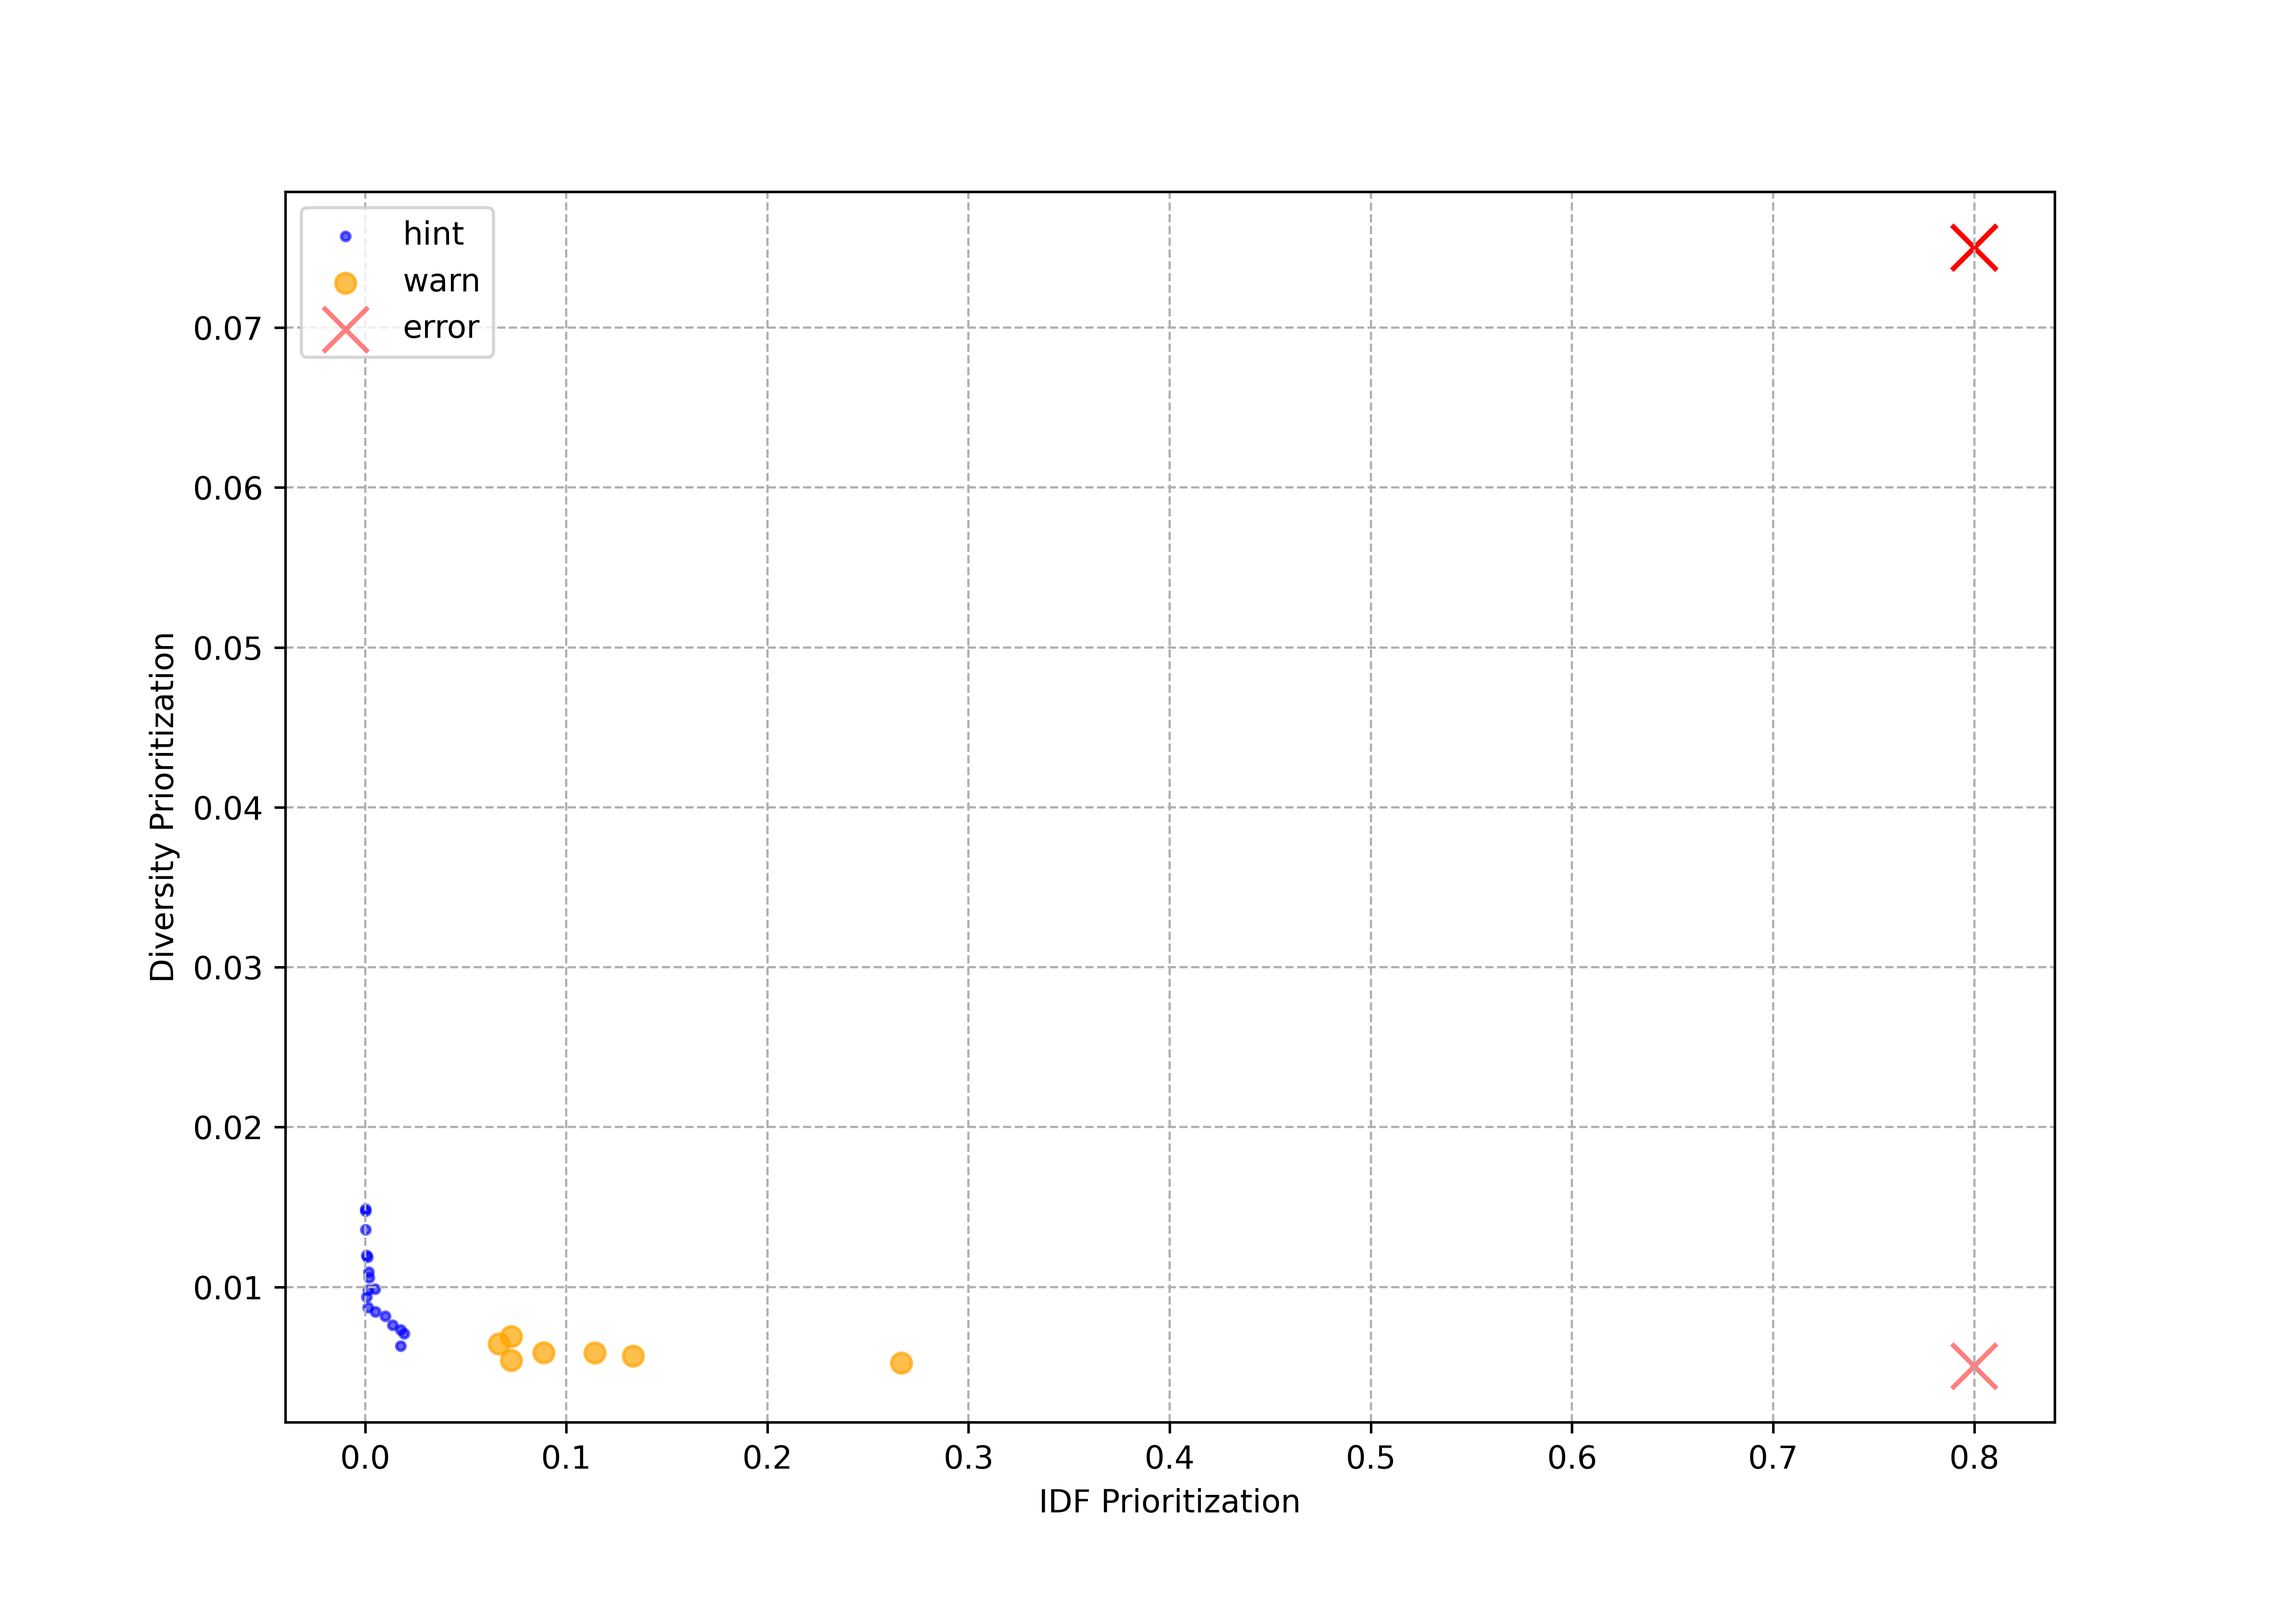
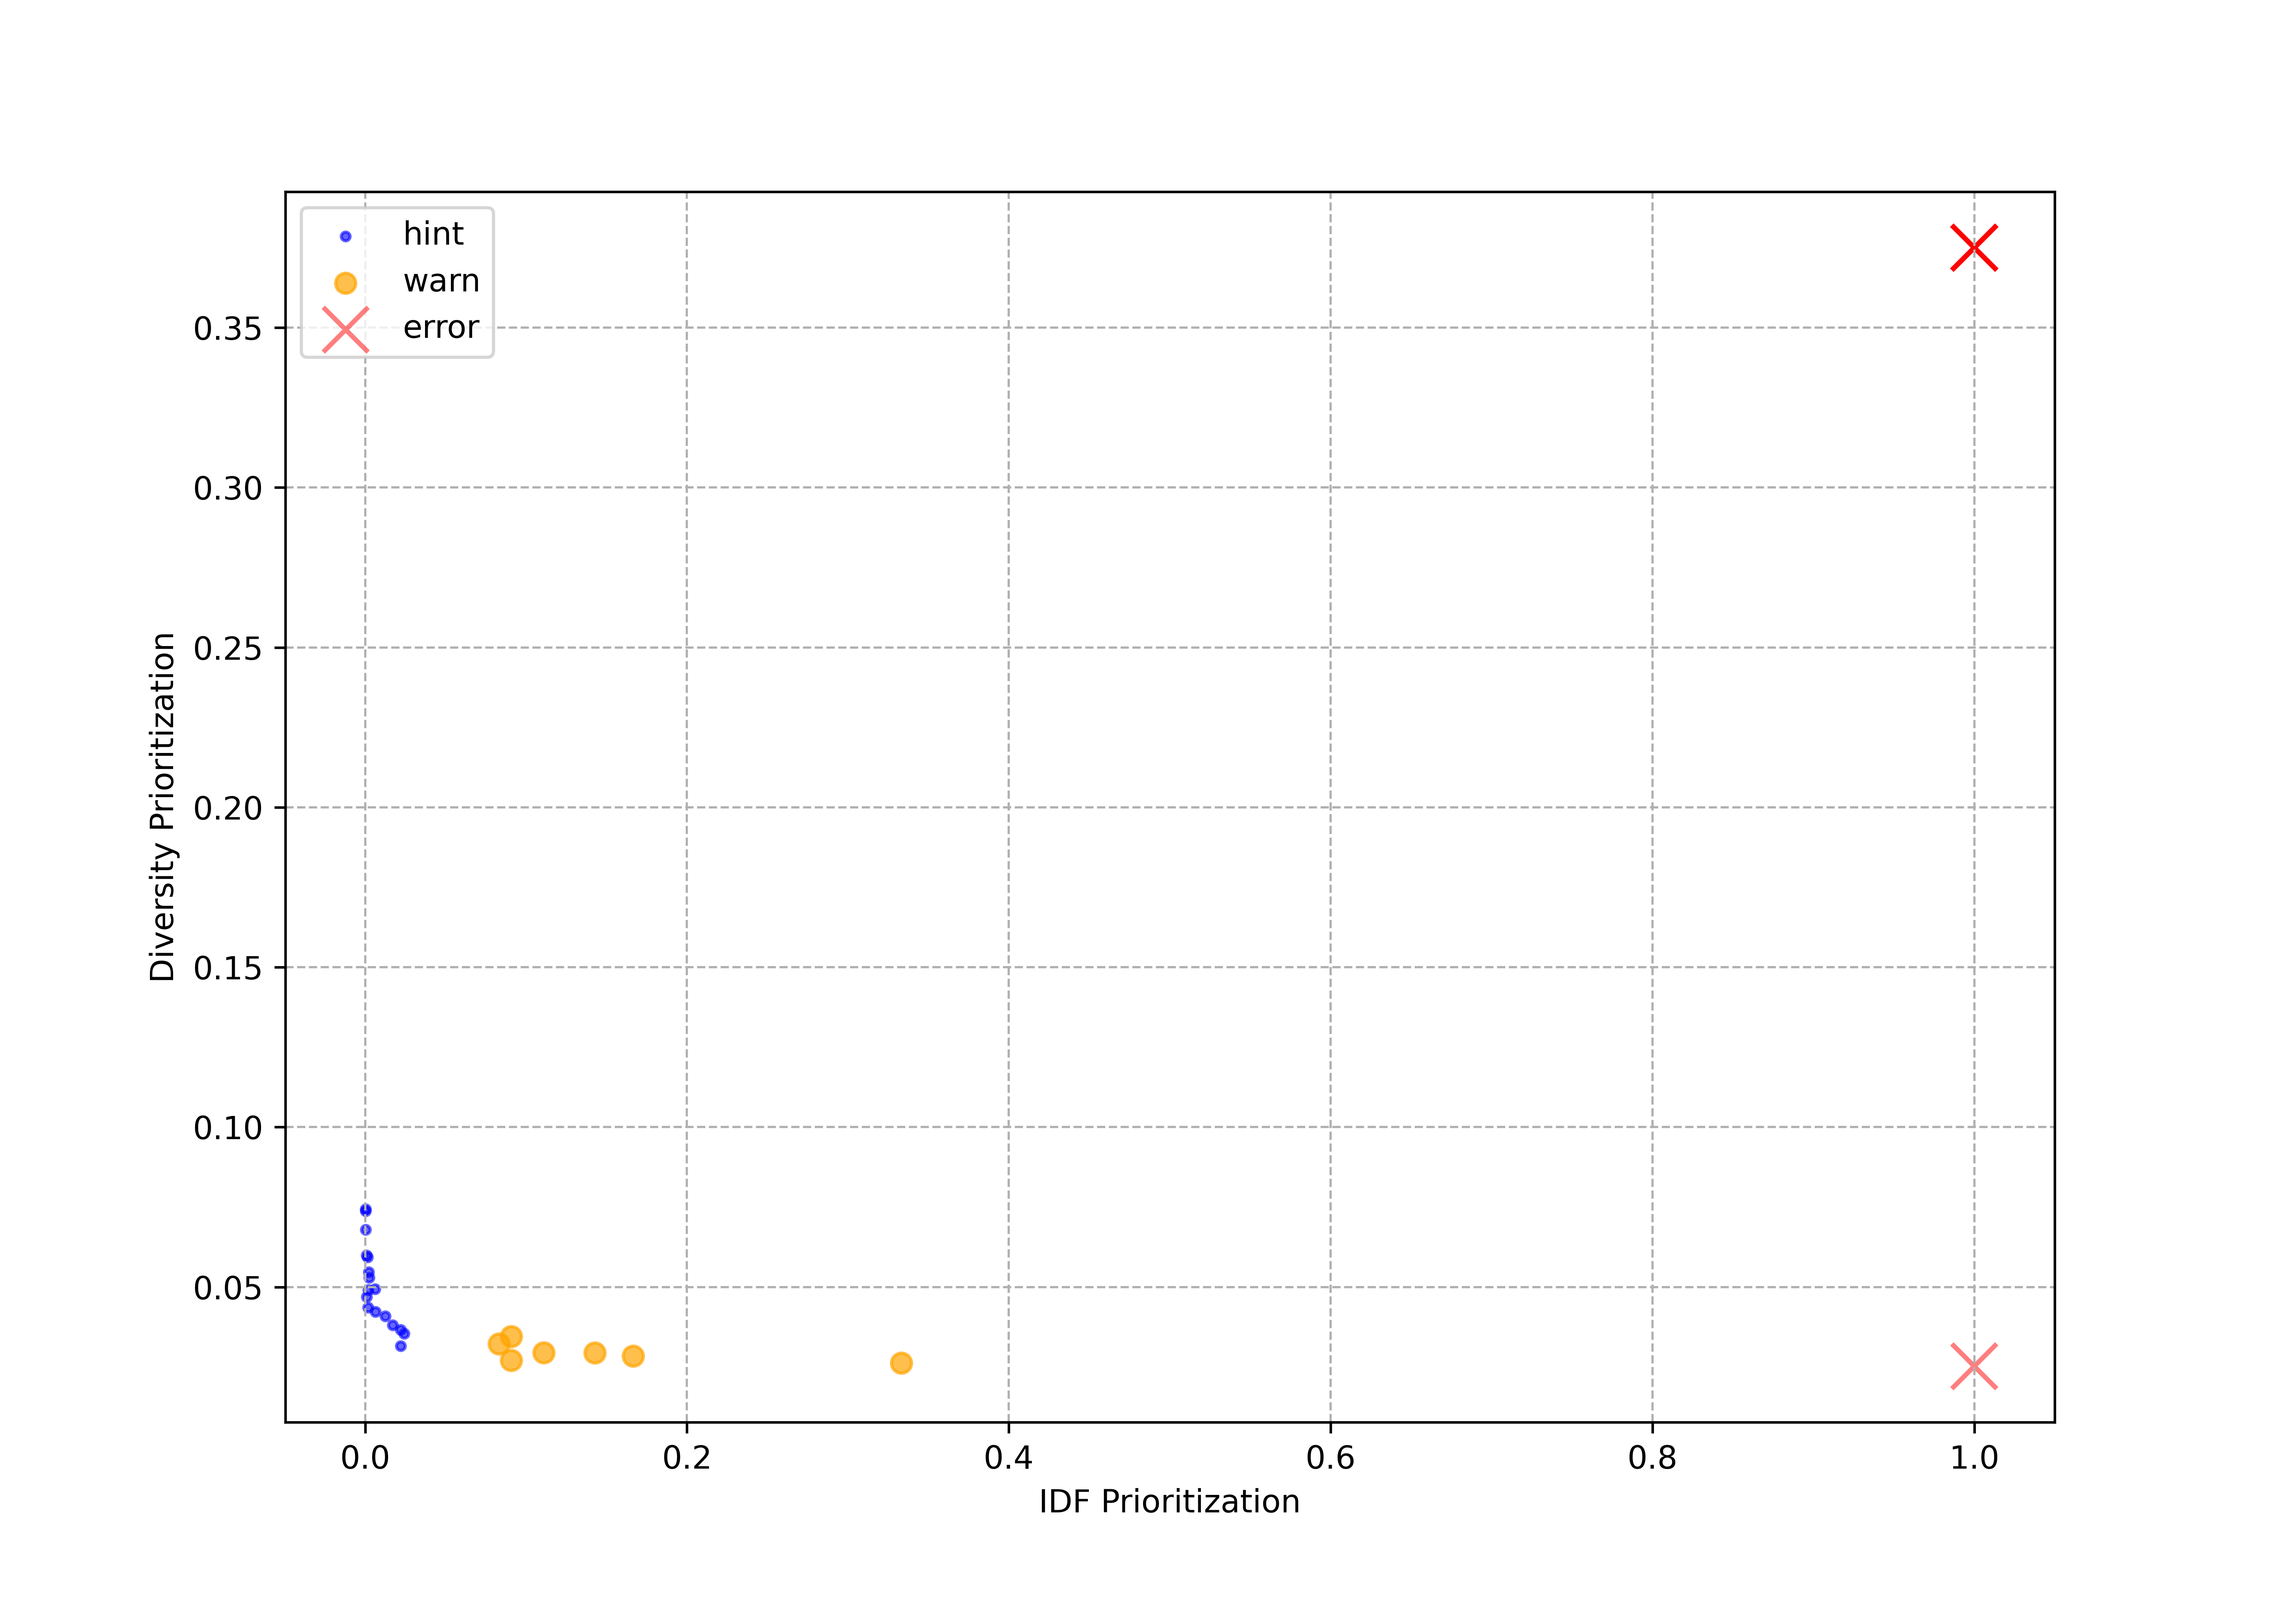
refactor dataanalysis pipeline

diff --git a/analysis/src/table/groupedprioritizedrules.py b/analysis/src/table/groupedprioritizedrules.py
@@ -22,7 +22,7 @@ def create_report():
 
     logger.info(
         "Kmeans Clustered Rules according to prio:\n%s",
-        df_clustered.sort_values(ascending=False, by="group").to_string(),
+        df_clustered.sort_values(ascending=False, by="weighed").to_string(),
     )
 
 
@@ -33,21 +33,34 @@ def create_clustering():
     alpha = 0.8
     beta = 0.2
 
-    inverse_frequence_series = create_inverse_frequence_score() * alpha
-    trigger_diversity_series = create_jaccard_inverted_score() * beta
+    inverse_frequence_series = create_inverse_frequence_score()
+    trigger_diversity_series = create_jaccard_inverted_score()
 
     df_prioritization = inverse_frequence_series.to_frame().assign(
         diversity=trigger_diversity_series.values
     )
     df_prioritization_renamed = df_prioritization.rename(columns={0: "idf"})
 
+    df_prioritization_renamed_weighed = df_prioritization_renamed["idf"].apply(
+        lambda x: alpha * x
+    )
+
+    df_prioritization_renamed_weighed = (
+        df_prioritization_renamed_weighed.to_frame().assign(
+            diversity=df_prioritization_renamed["diversity"].apply(lambda x: beta * x)
+        )
+    )
+
     kmeans = KMeans(n_clusters=3, random_state=0)
     severity_mapping = {0: "error", 1: "warn", 2: "hint"}
     grouping = [
         severity_mapping[group]
-        for group in kmeans.fit_predict(df_prioritization_renamed)
+        for group in kmeans.fit_predict(df_prioritization_renamed_weighed)
     ]
 
-    df_clustered = df_prioritization_renamed.assign(group=grouping)
+    df_clustered = df_prioritization_renamed.assign(
+        weighed=df_prioritization_renamed_weighed["idf"]
+        + df_prioritization_renamed_weighed["diversity"]
+    ).assign(group=grouping)
 
     return df_clustered

diff --git a/analysis/src/table/prioritizemultipleweighed.py b/analysis/src/table/prioritizemultipleweighed.py
@@ -29,7 +29,7 @@ def get_combined():
     df_ifs = create_inverse_frequence_score()
     inverted_df = create_jaccard_inverted_score()
 
-    alpha = 0.9
-    beta = 0.1
+    alpha = 0.8
+    beta = 0.2
 
     return (alpha * df_ifs) + (beta * inverted_df)
